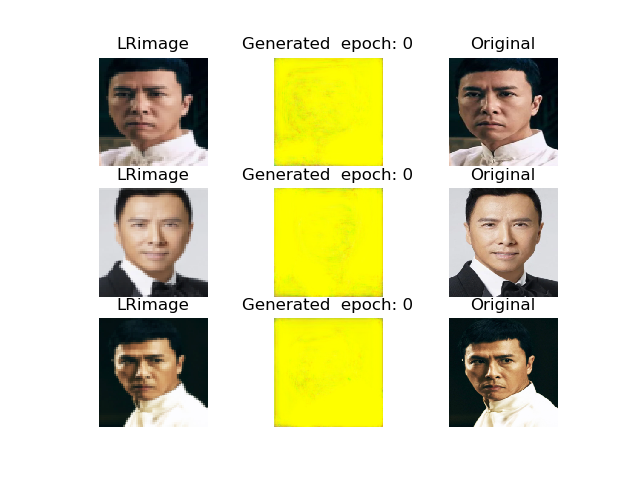
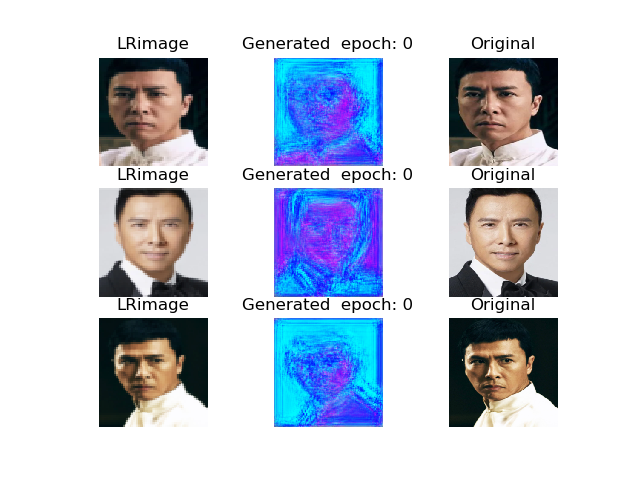
file_test

Changed region(s): [[0.4062, 0.6562, 0.625, 0.9062], [0.4062, 0.375, 0.625, 0.625], [0.4062, 0.0938, 0.625, 0.3438]]

diff --git a/main.py b/main.py
@@ -1,5 +1,5 @@
 from ClassGAN import GAN
 
 gan =  GAN()
-gan.train(epochs=10, batch_size=10, sample_interval=1)
+gan.train(epochs=81, batch_size=10, sample_interval=1)
 gan.use_image()
